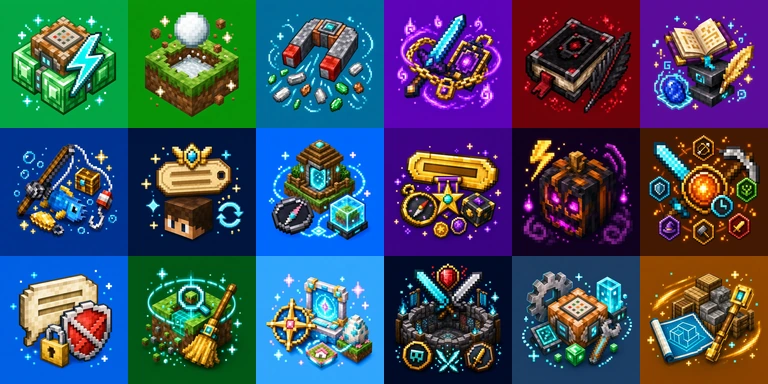
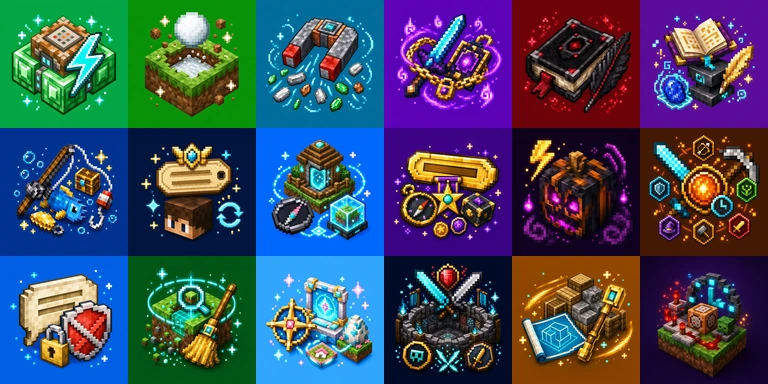
添加快速建筑与每秒刻数压测插件展示页

Changed region(s): [[0.6562, 0.6562, 1.0, 1.0]]

diff --git a/plugins/TPSlag.html b/plugins/TPSlag.html
@@ -1,0 +1,90 @@
+<!DOCTYPE html>
+<html lang="zh-CN">
+<head>
+    <meta charset="UTF-8">
+    <meta name="viewport" content="width=device-width, initial-scale=1.0">
+    <meta name="description" content="每秒刻数压测插件介绍页，展示 每秒刻数动态限速器、可回滚区块压力、机器人攻击场景模拟、状态查看和中文操作流程。">
+    <meta name="theme-color" content="#07111f">
+    <title>每秒刻数压测插件介绍</title>
+    <link rel="stylesheet" href="../assets/css/plugin-page.css">
+</head>
+<body class="theme-tpslag">
+    <main class="page">
+        <header class="topbar">
+            <a class="brand" href="../index.html" aria-label="返回主页">
+                <span class="brand-mark" aria-hidden="true"></span>
+                每秒刻数压测 · 压测演练
+            </a>
+            <nav class="quick-links" aria-label="页面导航">
+                <a href="#intro">插件介绍</a>
+                <a href="#features">核心能力</a>
+                <a href="#workflow">压测流程</a>
+                <a href="#info">运行信息</a>
+            </nav>
+        </header>
+
+        <section class="hero" aria-label="插件概览">
+            <article class="identity">
+                <div class="plugin-icon icon-tpslag image-icon" aria-label="每秒刻数压测图标">
+                    <img src="../assets/images/plugin-icons/tpslag.webp" alt="每秒刻数压测图标" loading="eager" decoding="async">
+                </div>
+                <h1 class="name-cn">每秒刻数压测</h1>
+                <p class="subtitle">动态限速与机器人场景模拟插件</p>
+            </article>
+
+            <article class="hero-copy">
+                <p class="label">目标每秒刻数 · 可回滚负载 · 机器人模拟 · 状态坐标</p>
+                <h2 class="hero-title">用可控压力复现卡顿和攻击场景</h2>
+                <p class="hero-text">每秒刻数压测面向测试服和管理演练，提供每秒刻数动态限速器与真实实体机器人场景模拟。它会在远离玩家的位置制造可回滚压力，并允许管理员随时查看状态、坐标或彻底停止清理。</p>
+                <div class="hero-actions">
+                    <a class="btn primary" href="#features">查看核心能力</a>
+                    <a class="btn secondary" href="#info">查看运行信息</a>
+                </div>
+                <div class="stat-list" aria-label="插件摘要">
+                <article class="stat"><h3 class="stat-title">目标限速</h3><p class="mini-text">自动尝试把每秒刻数稳定到指定值。</p></article>
+                <article class="stat"><h3 class="stat-title">安全回滚</h3><p class="mini-text">停止时回滚方块并解除强制加载。</p></article>
+                <article class="stat"><h3 class="stat-title">机器人演练</h3><p class="mini-text">使用真实实体模拟冲击场景。</p></article>
+                </div>
+            </article>
+        </section>
+
+        <section class="section" id="intro">
+            <h2 class="section-title">插件介绍</h2>
+            <p class="section-lead">它适合测试服、压测环境和应急演练，不建议在正式玩家活动高峰随意启用。插件重点是用可观察、可停止、可恢复的方式制造压力，帮助管理员验证监控、告警和优化策略。</p>
+        </section>
+
+        <section class="section" id="features">
+            <h2 class="section-title">核心能力</h2>
+            <div class="card-list">
+                <article class="mini-card"><h3 class="mini-title">每秒刻数动态限速</h3><p class="mini-text">使用 /tpslag start 指定目标每秒刻数，并动态调节压力强度。</p></article>
+                <article class="mini-card"><h3 class="mini-title">多类型负载</h3><p class="mini-text">组合 CPU 计算、内存分配、区块读写和主线程延迟。</p></article>
+                <article class="mini-card"><h3 class="mini-title">远离玩家执行</h3><p class="mini-text">默认在远离出生点的强制加载区块制造压力。</p></article>
+                <article class="mini-card"><h3 class="mini-title">机器人攻击模拟</h3><p class="mini-text">使用 /abot 创建真实实体，模拟大量机器人冲击与加入消息。</p></article>
+                <article class="mini-card"><h3 class="mini-title">状态与清理</h3><p class="mini-text">支持查看状态和坐标，停止时清理任务、方块和运行状态。</p></article>
+            </div>
+        </section>
+
+        <section class="section" id="workflow">
+            <h2 class="section-title">压测流程</h2>
+            <div class="timeline">
+                <article class="timeline-item"><div class="step-index">一</div><h3 class="step-title">设定目标</h3><p class="step-text">使用 /tpslag start 后附目标每秒刻数，或按配置启动。</p></article>
+                <article class="timeline-item"><div class="step-index">二</div><h3 class="step-title">制造负载</h3><p class="step-text">插件在指定区块执行计算、读写和延迟压力。</p></article>
+                <article class="timeline-item"><div class="step-index">三</div><h3 class="step-title">观察状态</h3><p class="step-text">通过 /tpslag status 与 /tpslag pos 查看当前情况。</p></article>
+                <article class="timeline-item"><div class="step-index">四</div><h3 class="step-title">停止回滚</h3><p class="step-text">执行 /tpslag stop 或 /abot stop，清理并恢复现场。</p></article>
+            </div>
+        </section>
+
+        <section class="section" id="info">
+            <h2 class="section-title">运行信息</h2>
+            <div class="info-list">
+                <article class="info-item"><h3 class="info-title">支持平台</h3><p class="info-text">面向纸端一点二十一点四环境。</p></article>
+                <article class="info-item"><h3 class="info-title">主命令</h3><p class="info-text">使用 /tpslag 管理限速，使用 /abot 管理机器人场景。</p></article>
+                <article class="info-item"><h3 class="info-title">权限节点</h3><p class="info-text">tpslag.control 控制压测，tpslag.abot 控制机器人模拟。</p></article>
+                <article class="info-item"><h3 class="info-title">使用提醒</h3><p class="info-text">请优先在测试服使用，并在压测前确认备份与监控。</p></article>
+            </div>
+        </section>
+
+        <p class="footer-note">压测完成后务必执行停止命令，并检查强制加载区块、机器人实体和状态输出是否已经清理。</p>
+    </main>
+</body>
+</html>

diff --git a/plugins/FastBuilder.html b/plugins/FastBuilder.html
@@ -1,0 +1,90 @@
+<!DOCTYPE html>
+<html lang="zh-CN">
+<head>
+    <meta charset="UTF-8">
+    <meta name="viewport" content="width=device-width, initial-scale=1.0">
+    <meta name="description" content="快速建筑插件介绍页，展示选区复制、结构文件读取、粒子预览、材料确认、自动建造和撤销返还能力。">
+    <meta name="theme-color" content="#07111f">
+    <title>快速建筑插件介绍</title>
+    <link rel="stylesheet" href="../assets/css/plugin-page.css">
+</head>
+<body class="theme-fastbuilder">
+    <main class="page">
+        <header class="topbar">
+            <a class="brand" href="../index.html" aria-label="返回主页">
+                <span class="brand-mark" aria-hidden="true"></span>
+                快速建筑
+            </a>
+            <nav class="quick-links" aria-label="页面导航">
+                <a href="#intro">插件介绍</a>
+                <a href="#features">核心能力</a>
+                <a href="#workflow">建造流程</a>
+                <a href="#info">运行信息</a>
+            </nav>
+        </header>
+
+        <section class="hero" aria-label="插件概览">
+            <article class="identity">
+                <div class="plugin-icon icon-fastbuilder image-icon" aria-label="快速建筑图标">
+                    <img src="../assets/images/plugin-icons/fastbuilder.webp" alt="快速建筑图标" loading="eager" decoding="async">
+                </div>
+                <h1 class="name-cn">快速建筑</h1>
+                <p class="subtitle">结构预览与自动建造插件</p>
+            </article>
+
+            <article class="hero-copy">
+                <p class="label">选区复制 · 结构读取 · 材料确认 · 撤销返还</p>
+                <h2 class="hero-title">把建筑蓝图变成可预览、可确认的施工流程</h2>
+                <p class="hero-text">快速建筑面向纸端服务器，把选区复制、结构文件读取、粒子预览、材料核对和分批自动建造串成一条安全流程。玩家可以先看见结构位置，再确认材料并开始施工。</p>
+                <div class="hero-actions">
+                    <a class="btn primary" href="#features">查看核心能力</a>
+                    <a class="btn secondary" href="#info">查看运行信息</a>
+                </div>
+                <div class="stat-list" aria-label="插件摘要">
+                <article class="stat"><h3 class="stat-title">结构复用</h3><p class="mini-text">支持保存和读取结构文件。</p></article>
+                <article class="stat"><h3 class="stat-title">施工预览</h3><p class="mini-text">粒子展示位置，确认后再开工。</p></article>
+                <article class="stat"><h3 class="stat-title">进度可控</h3><p class="mini-text">材料不足可暂停，建错可撤销。</p></article>
+                </div>
+            </article>
+        </section>
+
+        <section class="section" id="intro">
+            <h2 class="section-title">插件介绍</h2>
+            <p class="section-lead">它适合需要反复搭建样板建筑、活动场景、公共设施或玩家自建蓝图的服务器。插件不会直接跳过确认，而是先展示预览和材料需求，降低放错位置、材料不足和误操作风险。</p>
+        </section>
+
+        <section class="section" id="features">
+            <h2 class="section-title">核心能力</h2>
+            <div class="card-list">
+                <article class="mini-card"><h3 class="mini-title">选区复制</h3><p class="mini-text">使用 /fb pos1 与 /fb pos2 标记区域，把非空气方块复制到玩家缓存。</p></article>
+                <article class="mini-card"><h3 class="mini-title">结构文件管理</h3><p class="mini-text">可保存为结构文件，也能读取世界编辑组件支持的结构格式。</p></article>
+                <article class="mini-card"><h3 class="mini-title">粒子预览</h3><p class="mini-text">建造前按照旋转角展示粒子轮廓，确认位置后再打开材料界面。</p></article>
+                <article class="mini-card"><h3 class="mini-title">材料确认与续建</h3><p class="mini-text">生存模式实际消耗材料，不足时暂停并提示缺少内容。</p></article>
+                <article class="mini-card"><h3 class="mini-title">撤销返还</h3><p class="mini-text">支持撤销最近一次建造，并返还可校验的材料消耗。</p></article>
+            </div>
+        </section>
+
+        <section class="section" id="workflow">
+            <h2 class="section-title">建造流程</h2>
+            <div class="timeline">
+                <article class="timeline-item"><div class="step-index">一</div><h3 class="step-title">准备蓝图</h3><p class="step-text">复制选区，或把结构文件放入插件结构目录。</p></article>
+                <article class="timeline-item"><div class="step-index">二</div><h3 class="step-title">发起预览</h3><p class="step-text">使用 /fb build、/fb paste 或 /fb preview 查看落点。</p></article>
+                <article class="timeline-item"><div class="step-index">三</div><h3 class="step-title">确认材料</h3><p class="step-text">在材料界面核对需求，确认后开始分批放置。</p></article>
+                <article class="timeline-item"><div class="step-index">四</div><h3 class="step-title">跟踪进度</h3><p class="step-text">通过进度界面继续、取消或在需要时执行撤销。</p></article>
+            </div>
+        </section>
+
+        <section class="section" id="info">
+            <h2 class="section-title">运行信息</h2>
+            <div class="info-list">
+                <article class="info-item"><h3 class="info-title">支持平台</h3><p class="info-text">面向纸端一点二十一点四环境。</p></article>
+                <article class="info-item"><h3 class="info-title">核心依赖</h3><p class="info-text">需要世界编辑服务端组件提供结构文件读写能力。</p></article>
+                <article class="info-item"><h3 class="info-title">主命令</h3><p class="info-text">使用 /fb 管理选点、复制、保存、预览、建造和撤销。</p></article>
+                <article class="info-item"><h3 class="info-title">适用场景</h3><p class="info-text">样板建筑、活动场地、公共设施和玩家蓝图复用。</p></article>
+            </div>
+        </section>
+
+        <p class="footer-note">建议先用小结构测试材料消耗、旋转角和撤销流程，再开放给玩家长期使用。</p>
+    </main>
+</body>
+</html>

diff --git a/index.html b/index.html
@@ -964,6 +964,7 @@
             { name: '灵魂绑定', url: 'plugins/Binder.html', icon: 'assets/images/plugin-icons/binder.webp', desc: '为重要物品提供绑定、真实追踪、安全召回和防复制隔离能力。' },
             { name: '死亡笔记', url: 'plugins/DeathNote.html', icon: 'assets/images/plugin-icons/deathnote.webp', desc: '写下玩家名字即可触发公告、闪电、粒子和死亡倒计时演出。' },
             { name: '高级附魔书', url: 'plugins/EnchBookGenerator.html', icon: 'assets/images/plugin-icons/enchbook.webp', desc: '用中文命令生成指定附魔书，支持高等级附魔和铁砧真实应用。' },
+            { name: '快速建筑', url: 'plugins/FastBuilder.html', icon: 'assets/images/plugin-icons/fastbuilder.webp', desc: '通过选区复制、结构文件、粒子预览和材料确认，辅助玩家安全自动建造。' },
             { name: '钓鱼优化', url: 'plugins/Fish.html', icon: 'assets/images/plugin-icons/fish.webp', desc: '优化钓鱼节奏并加入固定奖池、稀有奖励和中文统计界面。' },
             { name: '头衔名牌', url: 'plugins/NameTagSync.html', icon: 'assets/images/plugin-icons/nametag.webp', desc: '自动同步 LuckPerms 前后缀，让玩家身份显示在头顶名牌上。' },
             { name: '联机大厅', url: 'plugins/PlayRoom.html', icon: 'assets/images/plugin-icons/playroom.webp', desc: '面向大厅服的入口与休闲玩法插件，提供清晰的玩家引导体验。' },
@@ -971,6 +972,7 @@
             { name: '惊吓插件', url: 'plugins/Scare.html', icon: 'assets/images/plugin-icons/scare.webp', desc: '为服务器添加突发音效、视觉效果和整蛊氛围的惊吓玩法。' },
             { name: 'RPG游戏技能', url: 'plugins/SkillJob.html', icon: 'assets/images/plugin-icons/skilljob.webp', desc: '构建职业、技能与成长体系，让玩家在 RPG 玩法中持续升级。' },
             { name: '聊天管控', url: 'plugins/StopChat.html', icon: 'assets/images/plugin-icons/stopchat.webp', desc: '提供聊天开关与管控能力，帮助管理员快速维护服务器聊天秩序。' },
+            { name: 'TPS压测', url: 'plugins/TPSlag.html', icon: 'assets/images/plugin-icons/tpslag.webp', desc: '提供可回滚的每秒刻数动态限速与实体机器人模拟，用于压测和应急演练。' },
             { name: '世界区块清理', url: 'plugins/WorldClean.html', icon: 'assets/images/plugin-icons/worldclean.webp', desc: '按规则清理世界区块和无用区域，降低存档体积与维护成本。' },
             { name: 'XRay大厅系统', url: 'plugins/XRayLobby.html', icon: 'assets/images/plugin-icons/xraylobby.webp', desc: '整合大厅入口、核心道具、菜单导航和玩家传送流程。' },
             { name: 'XRay天坑系统', url: 'plugins/xraypit.html', icon: 'assets/images/plugin-icons/xraypit.webp', desc: '打造 The Pit 风格竞技循环，包含击杀成长、商店补给和排行榜。' }

diff --git a/assets/css/plugin-page.css b/assets/css/plugin-page.css
@@ -25,6 +25,7 @@ body.theme-magnet { --bg: #101722; --text: #f2f7ff; --muted: #b5c2d6; --accent: 
 body.theme-binder { --bg: #171021; --text: #fff8e6; --muted: #d7c7e8; --accent: #ffd166; --accent-2: #a06bff; --icon-fg: #211205; }
 body.theme-deathnote { --bg: #12070a; --text: #fff0f0; --muted: #d8aeb4; --accent: #ff4d6d; --accent-2: #050505; --icon-fg: #fff0f0; }
 body.theme-enchbook { --bg: #120d24; --text: #fff9e8; --muted: #d7c9ef; --accent: #ffd56a; --accent-2: #7be7ff; --icon-fg: #221305; }
+body.theme-fastbuilder { --bg: #201207; --text: #fff8e8; --muted: #dcc5a9; --accent: #ffb13b; --accent-2: #5cecff; --icon-fg: #211204; }
 body.theme-fish { --bg: #042433; --text: #f2fdff; --muted: #a8d2dd; --accent: #5cecff; --accent-2: #ffd98a; --icon-fg: #042433; }
 body.theme-nametag { --bg: #071221; --text: #f4f9ff; --muted: #b3c7dc; --accent: #69d8ff; --accent-2: #ffd36a; --icon-fg: #06101f; }
 body.theme-playroom { --bg: #091b31; --text: #f3fbff; --muted: #adc7de; --accent: #68b7ff; --accent-2: #73f0ff; --icon-fg: #061326; }
@@ -32,6 +33,7 @@ body.theme-prefix { --bg: #171026; --text: #fff8df; --muted: #d8c6f0; --accent: 
 body.theme-scare { --bg: #110816; --text: #fff3fb; --muted: #d4b5ce; --accent: #ff5c8a; --accent-2: #7c4dff; --icon-fg: #19070f; }
 body.theme-skilljob { --bg: #211409; --text: #fff5d6; --muted: #dcc9a9; --accent: #ffd166; --accent-2: #ff8d4a; --icon-fg: #241509; }
 body.theme-stopchat { --bg: #07192b; --text: #f4fbff; --muted: #b6cce2; --accent: #62c7ff; --accent-2: #7af0d6; --icon-fg: #06111e; }
+body.theme-tpslag { --bg: #110d2d; --text: #f8f6ff; --muted: #c8c1e8; --accent: #41f1ff; --accent-2: #ff5e7e; --icon-fg: #0b0d1c; }
 body.theme-worldclean { --bg: #071b12; --text: #f4fff6; --muted: #b9d8c1; --accent: #6ee787; --accent-2: #74f2d5; --icon-fg: #062016; }
 body.theme-xraylobby { --bg: #0a1830; --text: #f6fbff; --muted: #b7cbe0; --accent: #74c7ff; --accent-2: #ff9ee8; --icon-fg: #07142a; }
 body.theme-xraypit { --bg: #0b1020; --text: #f4fbff; --muted: #b8c2d4; --accent: #31e7ff; --accent-2: #ff5c7a; --icon-fg: #07101d; }
